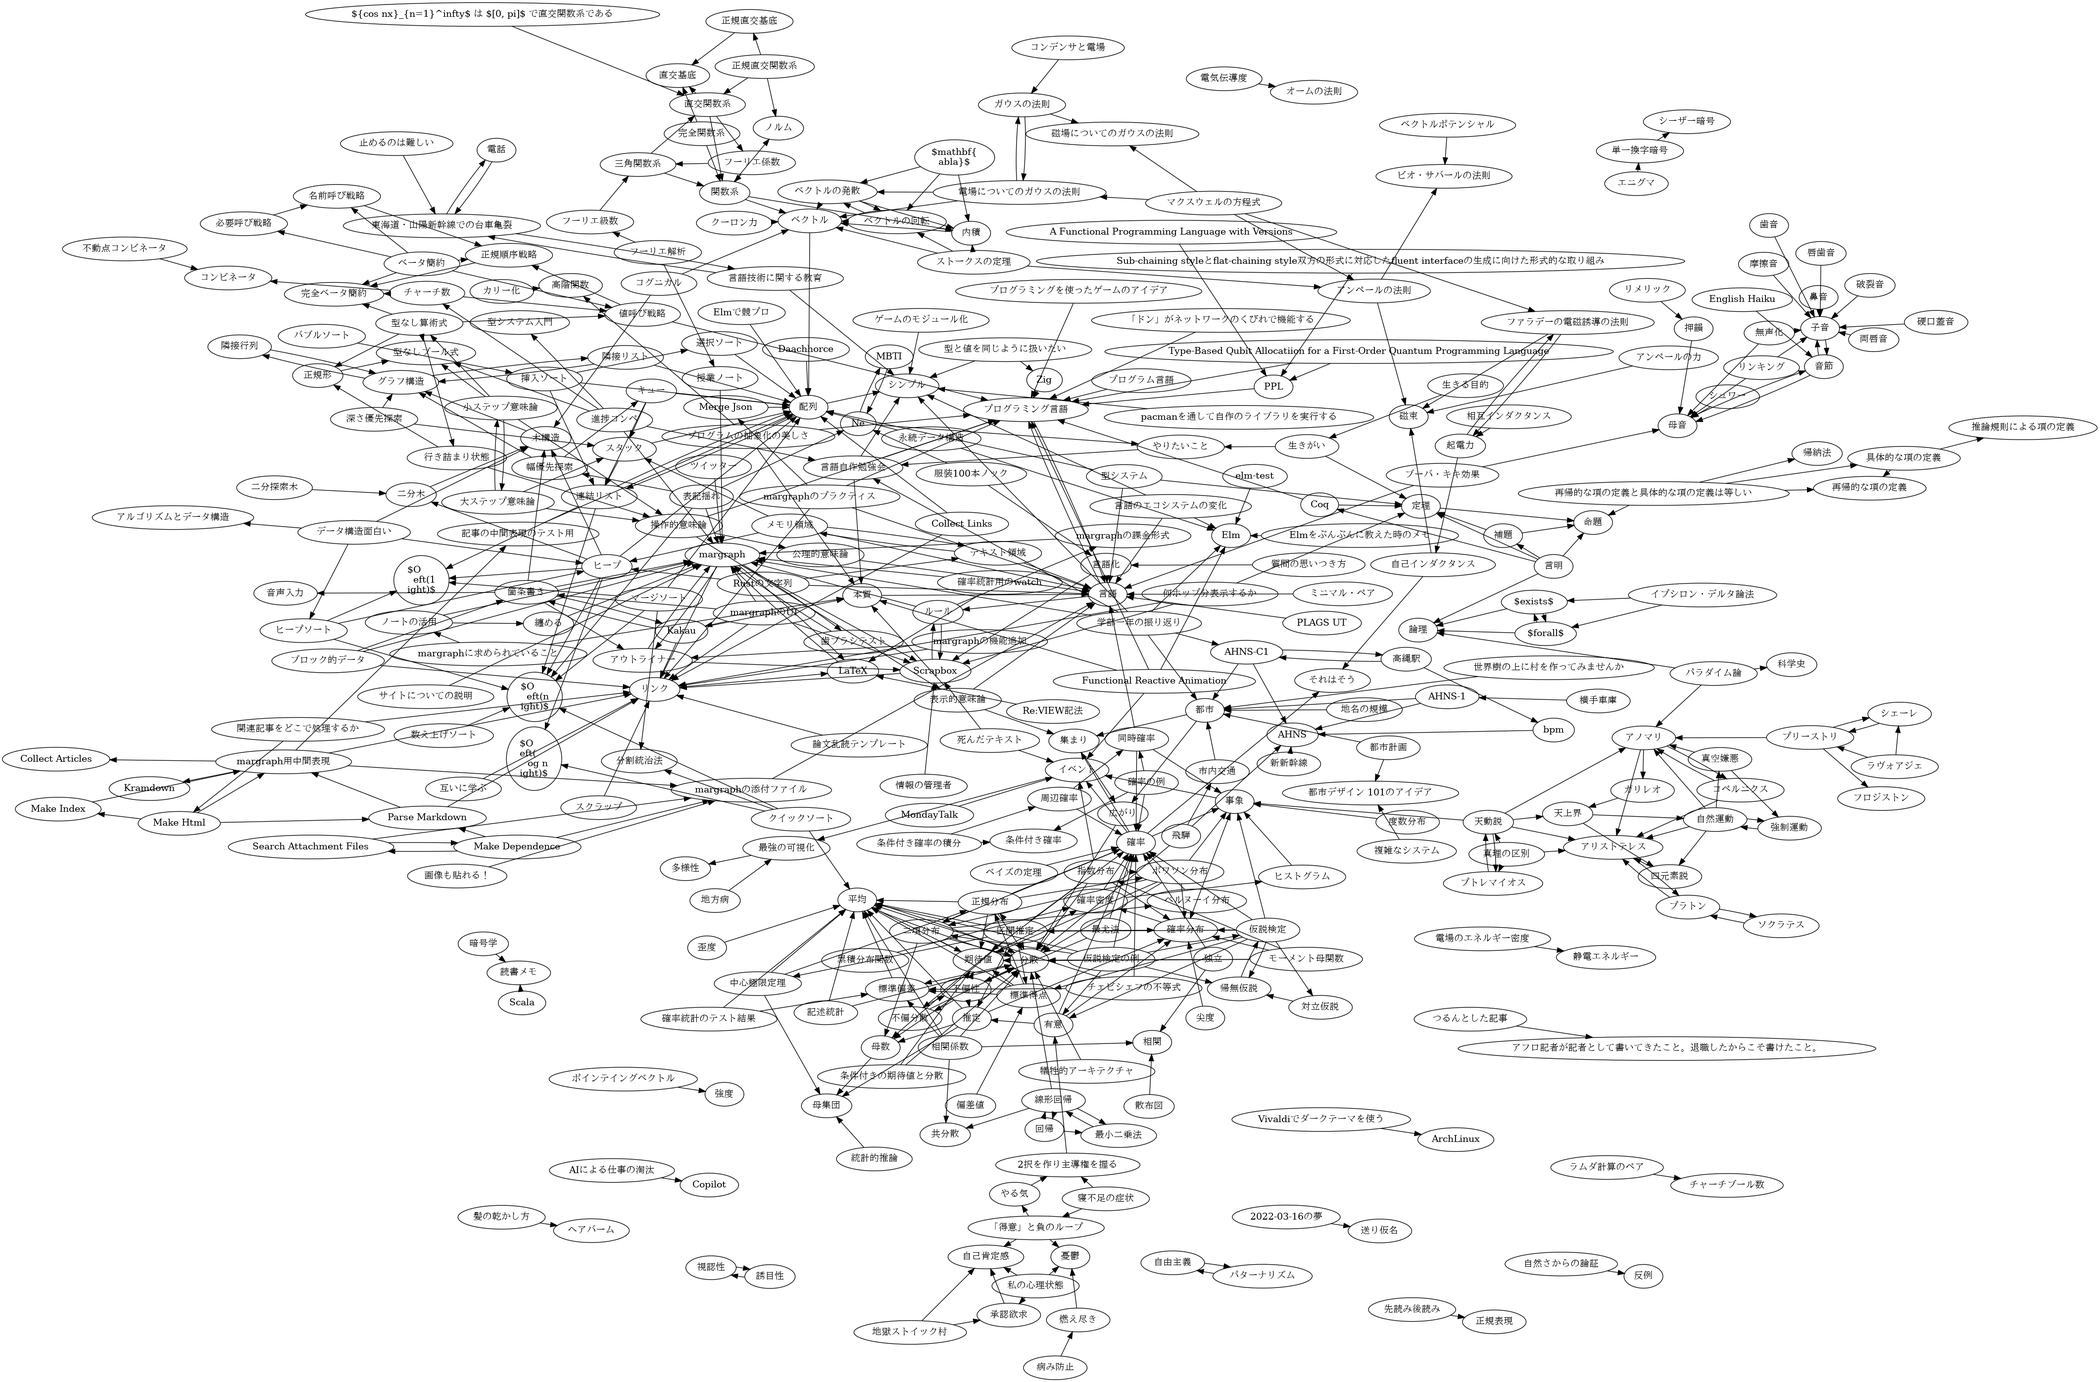
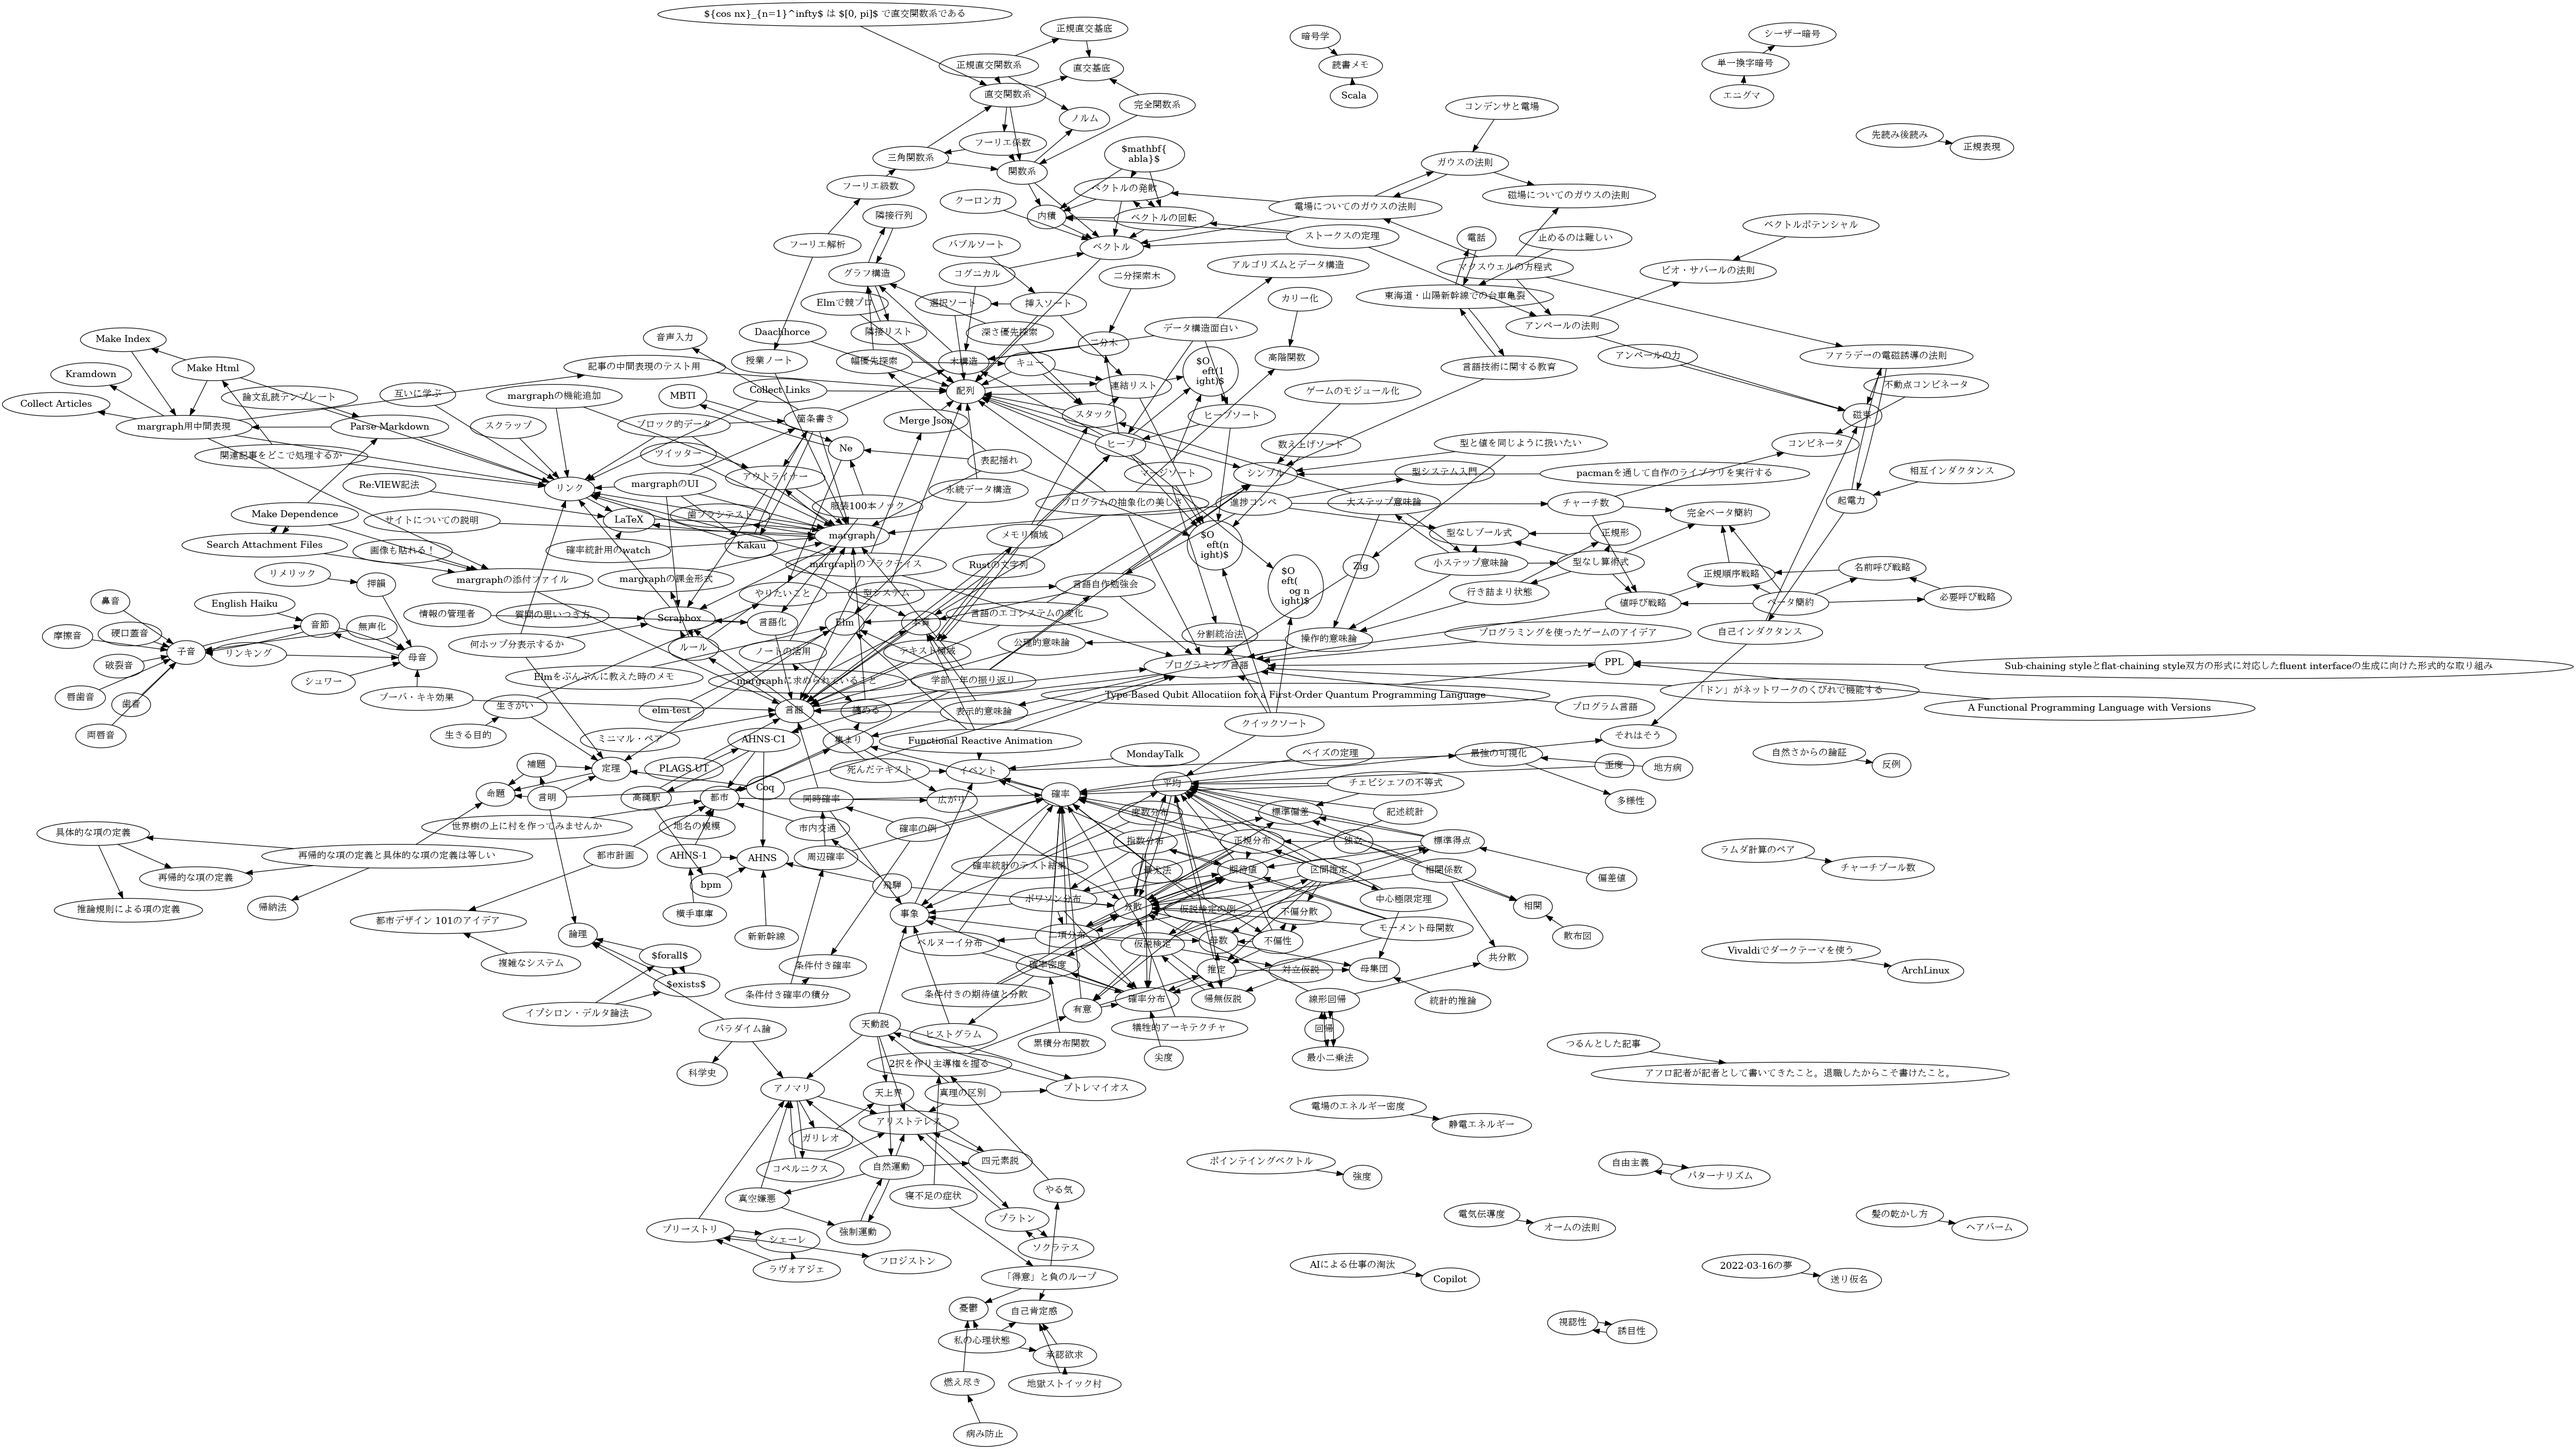
deploy: 37bf11161cb0e6c3c594c11d30341962ac160e12

diff --git a/other/gather.html b/other/gather.html
@@ -313,6 +313,54 @@
             
           </div>
         
+          <div class="row flex-nowrap overflow-auto">
+            <div class="col-4">
+              <div class="card h-100">
+                <div class="card-body">
+                  <h5 class="card-title fs-6"><a href="../other/atsumari.html">集まり</a></h5>
+                  <p class="card-text">- 物事が一ヶ所にまとめられ、集約されているようなさま - 広...</p>
+                </div>
+              </div>
+            </div>
+            
+              <div class="col-4">
+                <div class="card h-100">
+                  <div class="card-body">
+                    <h5 class="card-title fs-6"><a href="../other/hirogari.html">広がり</a></h5>
+                    <p class="card-text">- 物事が開けた、分散したようなさま - 一ヶ所に纏まってる、...</p>
+                  </div>
+                </div>
+              </div>
+            
+              <div class="col-4">
+                <div class="card h-100">
+                  <div class="card-body">
+                    <h5 class="card-title fs-6"><a href="../math/probability-statistics/11-probability.html">確率</a></h5>
+                    <p class="card-text">- $0 \leq P(A_i) \leq 1$   - $A...</p>
+                  </div>
+                </div>
+              </div>
+            
+              <div class="col-4">
+                <div class="card h-100">
+                  <div class="card-body">
+                    <h5 class="card-title fs-6"><a href="../other/city.html">都市</a></h5>
+                    <p class="card-text">- 都市には広がりと集まりが必要なのではないか   - 集まり...</p>
+                  </div>
+                </div>
+              </div>
+            
+              <div class="col-4">
+                <div class="card h-100">
+                  <div class="card-body">
+                    <h5 class="card-title fs-6"><a href="../reading-note/tapl/03-06-expressive-sem.html">表示的意味論</a></h5>
+                    <p class="card-text">意味領域の集まりを見つけ、項を意味領域の元に移す解釈関数を定義...</p>
+                  </div>
+                </div>
+              </div>
+            
+          </div>
+        
       </div>
       
 

diff --git a/other/atsumari.html b/other/atsumari.html
@@ -47,6 +47,7 @@
       </li>
     </ul>
   </li>
+  <li>集めることを<a href="../other/gather.html">纏める</a>とも言う</li>
 </ul>
 </div>
             
@@ -111,6 +112,36 @@
                   <div class="card-body">
                     <h5 class="card-title fs-6"><a href="../math/probability-statistics/05a-variance.html">分散</a></h5>
                     <p class="card-text">- 標準偏差を2乗したもの   - $\sigma^2$ - ...</p>
+                  </div>
+                </div>
+              </div>
+            
+          </div>
+        
+          <div class="row flex-nowrap overflow-auto">
+            <div class="col-4">
+              <div class="card h-100">
+                <div class="card-body">
+                  <h5 class="card-title fs-6"><a href="../other/gather.html">纏める</a></h5>
+                  <p class="card-text">- 纏めることで重要なのは、切り分けることなのではないか。 -...</p>
+                </div>
+              </div>
+            </div>
+            
+              <div class="col-4">
+                <div class="card h-100">
+                  <div class="card-body">
+                    <h5 class="card-title fs-6"><a href="../margraph/01-note.html">margraph</a></h5>
+                    <p class="card-text">named by sizumita - Scrapboxがgo...</p>
+                  </div>
+                </div>
+              </div>
+            
+              <div class="col-4">
+                <div class="card h-100">
+                  <div class="card-body">
+                    <h5 class="card-title fs-6"><a href="../long-tweets/2021-11-25.html">ノートの活用</a></h5>
+                    <p class="card-text">人が覚えられる量には明らかに限界がある(例えば保育園や小学校の...</p>
                   </div>
                 </div>
               </div>

diff --git a/math/probability-statistics/11-probability.html b/math/probability-statistics/11-probability.html
@@ -258,6 +258,15 @@
               <div class="col-4">
                 <div class="card h-100">
                   <div class="card-body">
+                    <h5 class="card-title fs-6"><a href="../../other/gather.html">纏める</a></h5>
+                    <p class="card-text">- 纏めることで重要なのは、切り分けることなのではないか。 -...</p>
+                  </div>
+                </div>
+              </div>
+            
+              <div class="col-4">
+                <div class="card h-100">
+                  <div class="card-body">
                     <h5 class="card-title fs-6"><a href="../../other/city.html">都市</a></h5>
                     <p class="card-text">- 都市には広がりと集まりが必要なのではないか   - 集まり...</p>
                   </div>

diff --git a/reading-note/tapl/03-06-expressive-sem.html b/reading-note/tapl/03-06-expressive-sem.html
@@ -117,6 +117,15 @@
               <div class="col-4">
                 <div class="card h-100">
                   <div class="card-body">
+                    <h5 class="card-title fs-6"><a href="../../other/gather.html">纏める</a></h5>
+                    <p class="card-text">- 纏めることで重要なのは、切り分けることなのではないか。 -...</p>
+                  </div>
+                </div>
+              </div>
+            
+              <div class="col-4">
+                <div class="card h-100">
+                  <div class="card-body">
                     <h5 class="card-title fs-6"><a href="../../math/probability-statistics/11-probability.html">確率</a></h5>
                     <p class="card-text">- $0 \leq P(A_i) \leq 1$   - $A...</p>
                   </div>

diff --git a/other/city.html b/other/city.html
@@ -123,6 +123,15 @@
               <div class="col-4">
                 <div class="card h-100">
                   <div class="card-body">
+                    <h5 class="card-title fs-6"><a href="../other/gather.html">纏める</a></h5>
+                    <p class="card-text">- 纏めることで重要なのは、切り分けることなのではないか。 -...</p>
+                  </div>
+                </div>
+              </div>
+            
+              <div class="col-4">
+                <div class="card h-100">
+                  <div class="card-body">
                     <h5 class="card-title fs-6"><a href="../math/probability-statistics/11-probability.html">確率</a></h5>
                     <p class="card-text">- $0 \leq P(A_i) \leq 1$   - $A...</p>
                   </div>

diff --git a/other/hirogari.html b/other/hirogari.html
@@ -272,6 +272,15 @@
               <div class="col-4">
                 <div class="card h-100">
                   <div class="card-body">
+                    <h5 class="card-title fs-6"><a href="../other/gather.html">纏める</a></h5>
+                    <p class="card-text">- 纏めることで重要なのは、切り分けることなのではないか。 -...</p>
+                  </div>
+                </div>
+              </div>
+            
+              <div class="col-4">
+                <div class="card h-100">
+                  <div class="card-body">
                     <h5 class="card-title fs-6"><a href="../math/probability-statistics/11-probability.html">確率</a></h5>
                     <p class="card-text">- $0 \leq P(A_i) \leq 1$   - $A...</p>
                   </div>

diff --git a/long-tweets/2021-11-25.html b/long-tweets/2021-11-25.html
@@ -103,6 +103,15 @@
               </div>
             </div>
             
+              <div class="col-4">
+                <div class="card h-100">
+                  <div class="card-body">
+                    <h5 class="card-title fs-6"><a href="../other/atsumari.html">集まり</a></h5>
+                    <p class="card-text">- 物事が一ヶ所にまとめられ、集約されているようなさま - 広...</p>
+                  </div>
+                </div>
+              </div>
+            
           </div>
         
           <div class="row flex-nowrap overflow-auto">

diff --git a/margraph/01-note.html b/margraph/01-note.html
@@ -418,6 +418,15 @@
               </div>
             </div>
             
+              <div class="col-4">
+                <div class="card h-100">
+                  <div class="card-body">
+                    <h5 class="card-title fs-6"><a href="../other/atsumari.html">集まり</a></h5>
+                    <p class="card-text">- 物事が一ヶ所にまとめられ、集約されているようなさま - 広...</p>
+                  </div>
+                </div>
+              </div>
+            
           </div>
         
           <div class="row flex-nowrap overflow-auto">
